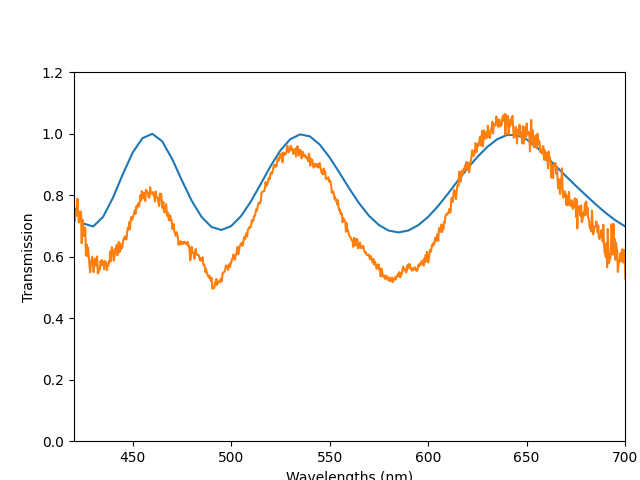
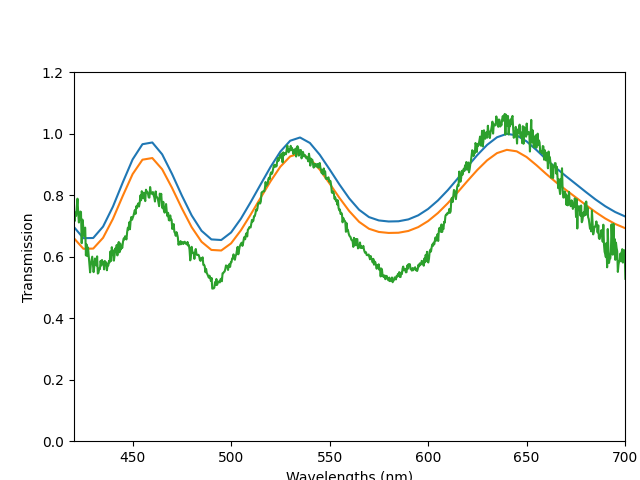
check MTF ok

Changed region(s): [[0.4062, 0.2188, 1.0, 0.5938], [0.0938, 0.2812, 0.4062, 0.5938]]

diff --git a/functions.py b/functions.py
@@ -67,11 +67,11 @@ class output_parameters:
         self.angle_x_centre = angle_x_centre
         self.angle_y_centre = angle_y_centre
         self.datapoint = datapoints
-        #array of output angles to display for diffraction image (change this to be larger than the NA of the lens??)
+        #array of output angles to display for diffraction image (1.5* NA of lens)
         self.angle_x_array = np.linspace(
-            angle_x_centre-self.half_angle, angle_x_centre+self.half_angle, datapoints)
+            angle_x_centre-1.5*self.half_angle, angle_x_centre+1.5*self.half_angle, datapoints)
         self.angle_y_array = np.linspace(
-            angle_y_centre - self.half_angle, angle_y_centre + self.half_angle, datapoints)
+            angle_y_centre - 1.5*self.half_angle, angle_y_centre + 1.5*self.half_angle, datapoints)
         self.angle_x_array_deg = np.degrees(self.angle_x_array)
         self.angle_y_array_deg = np.degrees(self.angle_y_array)
         [self.angle_x_array_meshed, self.angle_y_array_meshed] = np.meshgrid(
@@ -167,7 +167,9 @@ def MTF_function(spatial_frequency):
     #TODO - download actual data/calc actual MTF
     k=spatial_frequency
     k_max=200/mm
-    MTF=abs(1-k/k_max)#approx triangle function
+    MTF=1-k/k_max#approx triangle function
+    ids=MTF<0
+    MTF[ids]=0
     return MTF
 
 def calculate_diffraction_pattern_image(input, output, dmd):
@@ -179,13 +181,11 @@ def calculate_diffraction_pattern_image(input, output, dmd):
     diffraction_image = E2_grating * E2_envelope
 
     #calculate total power collected by lens
-    spatial_frequencies = input.wavelength/np.sin(output.effective_angle_of_vector)
+    spatial_frequencies = np.sin(output.effective_angle_of_vector)/input.wavelength # check this
 
     #image_collected = diffraction_image * output.collected_vectors
     image_collected_MTF = diffraction_image * MTF_function(spatial_frequencies)
-    #total_power_collected=np.sum(np.sum(image_collected))
     total_power_collected_MTF= np.sum(np.sum(image_collected_MTF))
-    total_power_collected=total_power_collected_MTF
 
-    return [diffraction_image,total_power_collected,E2_grating,E2_envelope,image_collected_MTF]
+    return [diffraction_image,total_power_collected_MTF,E2_grating,E2_envelope,image_collected_MTF]
 

diff --git a/main.py b/main.py
@@ -42,8 +42,7 @@ for i in np.arange(np.size(wavelengths)):
      t = time.time()
 
      # TODO - how to correctly normalize the tranmission?
-     transmission_collected[i] = total_power_collected
-     #transmission_collected[i] = total_power_collected / np.sum(np.sum(diffraction_image))
+     transmission_collected[i] = total_power_collected / np.sum(np.sum(diffraction_image))
      print('Wavelength =' + str(np.round(input.wavelength/nm,0))+'nm')
 
      #plot results
@@ -62,7 +61,7 @@ for i in np.arange(np.size(wavelengths)):
      fig.tight_layout()
 
      fig.suptitle('Wavelength =' +str(np.round(input.wavelength/nm,0))+'nm', fontsize=16)
-     fig.savefig('Figures/wavelength' +str(np.round(input.wavelength/nm,0))+'nm' + '.png')
+     #fig.savefig('Figures/wavelength' +str(np.round(input.wavelength/nm,0))+'nm' + '.png')
 
      plt.pause(0.000001)
      elapsed = time.time() - t
@@ -80,7 +79,7 @@ wavelengths_experimental=experimental_data.loc[:,'Wavelength'].to_numpy()
 transmission_experimental=experimental_data.loc[:,'Transmission'].to_numpy()
 
 plt.clf()
-plt.plot(wavelengths/nm,transmission_collected/max(transmission_collected)) # normalized by maximum for now
+plt.plot(wavelengths/nm,transmission_collected) # normalized by maximum for now
 plt.plot(wavelengths_experimental,transmission_experimental)
 plt.ylim((0,1.2))
 plt.xlim((420,700))
